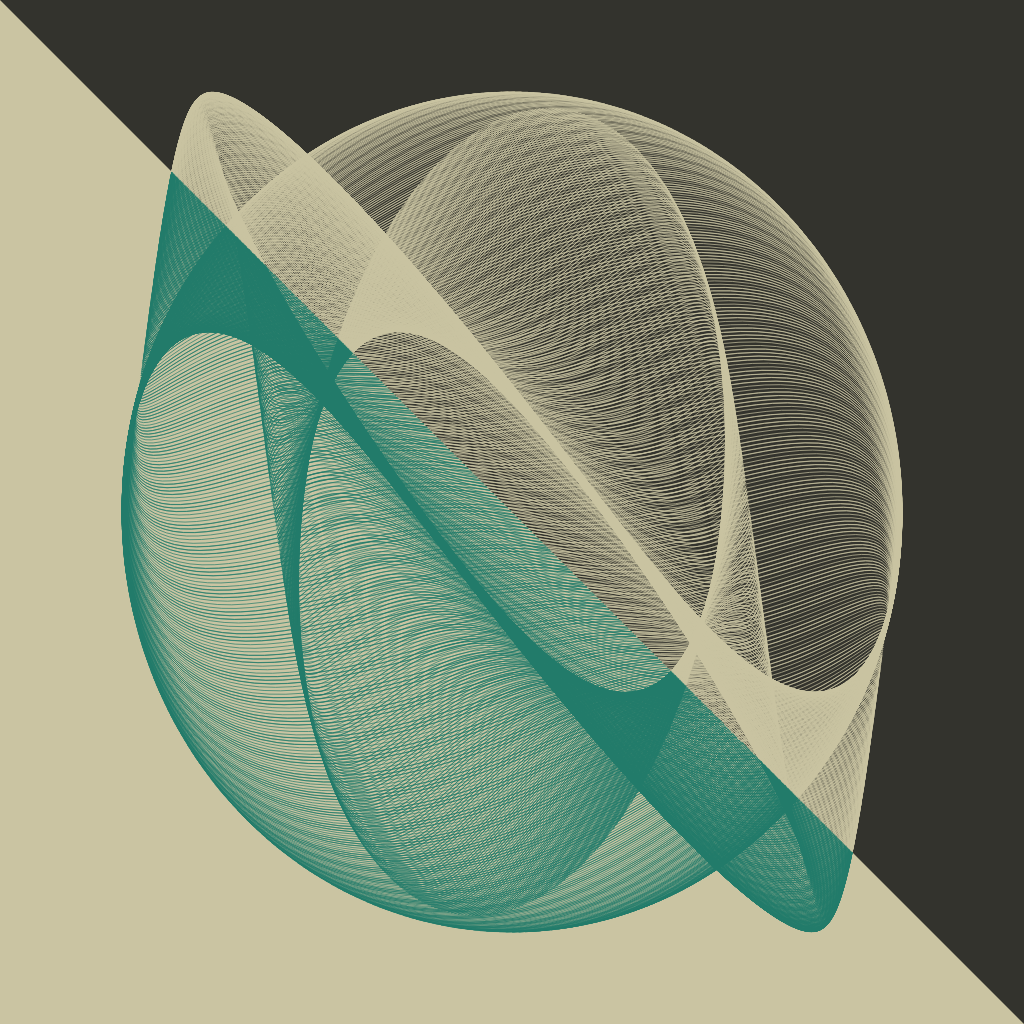
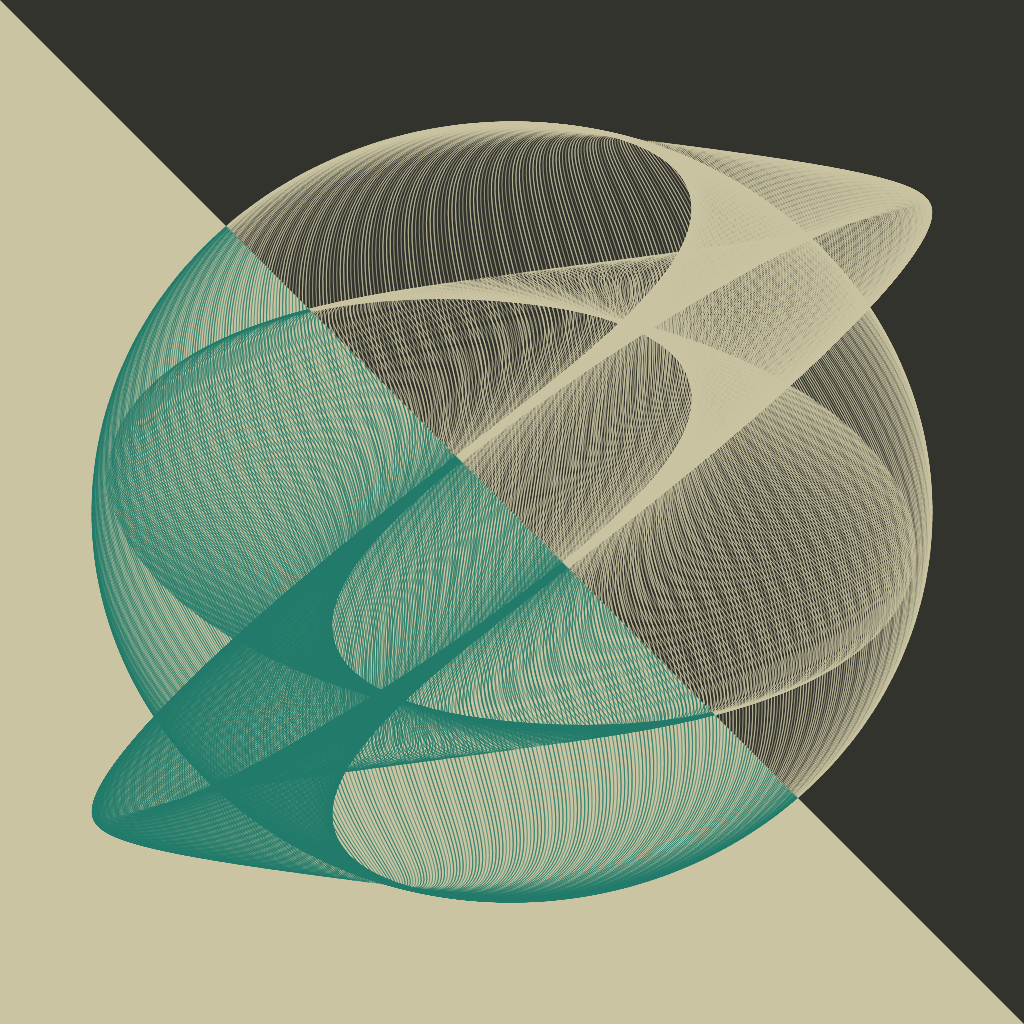
hD

diff --git a/gart/src/main/kotlin/dev/oblac/gart/math/transform.kt b/gart/src/main/kotlin/dev/oblac/gart/math/transform.kt
@@ -1,0 +1,35 @@
+package dev.oblac.gart.math
+
+import dev.oblac.gart.angles.Angle
+import dev.oblac.gart.angles.cos
+import dev.oblac.gart.angles.sin
+import dev.oblac.gart.gfx.pointOf
+import org.jetbrains.skia.Point
+
+fun interface Transform {
+    operator fun invoke(point: Point): Point
+    operator fun plus(transform: Transform) = Transform { point -> transform(this.invoke(point)) }
+
+    companion object {
+        fun rotate(point: Point, angle: Angle): Transform {
+            return RotationTransform(point.x, point.y, angle)
+        }
+
+        fun rotate(x: Number, y: Number, angle: Angle): Transform {
+            return RotationTransform(x.toFloat(), y.toFloat(), angle)
+        }
+    }
+}
+
+enum class RotationDirection {
+    CW,
+    CCW
+}
+
+class RotationTransform(private val x: Float, private val y: Float, private val angle: Angle) : Transform {
+    override operator fun invoke(point: Point): Point {
+        val cx = x + (point.x - x) * cos(angle) - (point.y - y) * sin(angle)
+        val cy = y + (point.x - x) * sin(angle) + (point.y - y) * cos(angle)
+        return pointOf(cx, cy)
+    }
+}

diff --git a/arts/harmongraph/src/main/kotlin/dev/oblac/gart/harmongraph/formulas/hD.kt b/arts/harmongraph/src/main/kotlin/dev/oblac/gart/harmongraph/formulas/hD.kt
@@ -2,9 +2,11 @@ package dev.oblac.gart.harmongraph.formulas
 
 import dev.oblac.gart.Dimension
 import dev.oblac.gart.Gart
+import dev.oblac.gart.angles.Degrees
 import dev.oblac.gart.color.RetroColors
 import dev.oblac.gart.gfx.Point
 import dev.oblac.gart.gfx.plus
+import dev.oblac.gart.math.Transform
 import org.jetbrains.skia.Canvas
 import org.jetbrains.skia.Point
 import kotlin.math.cos
@@ -32,10 +34,12 @@ private val colorBold = RetroColors.teal01
 private fun draw(c: Canvas, d: Dimension) {
     c.clear(colorBack)
     drawTriangles(c, d, colorBack, colorFront)
+    val r = Transform.rotate(d.cx, d.cy, Degrees.of(45)) + Transform.rotate(d.cx, d.cy, Degrees.of(45))
     repeat(600) { i ->
         val deltaPhase = i * 0.1f
         funD(deltaPhase, deltaPhase)
             .map { it + d.center }
+            .map { r(it) }
             .zipWithNext()
             .forEach(drawHarmonographLine(c, d, colorFront, colorBold, 180))
     }
